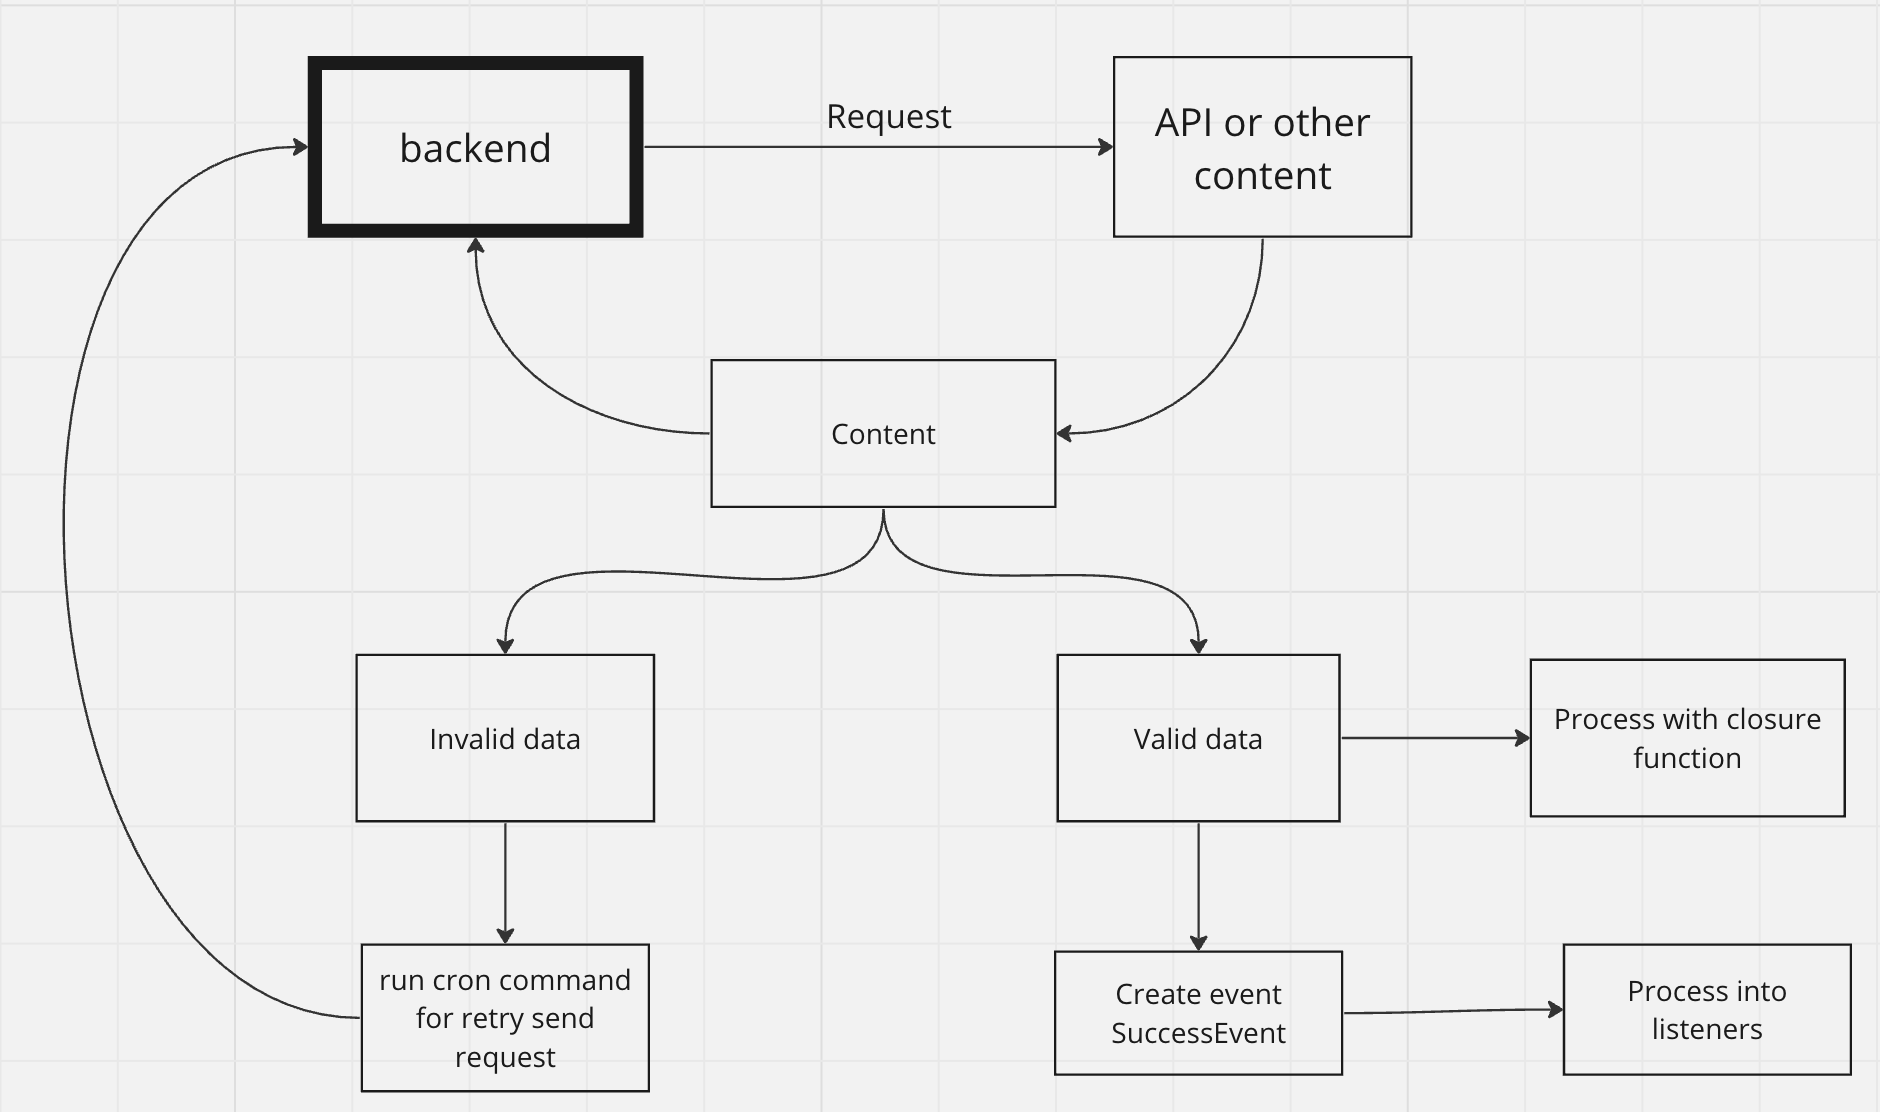
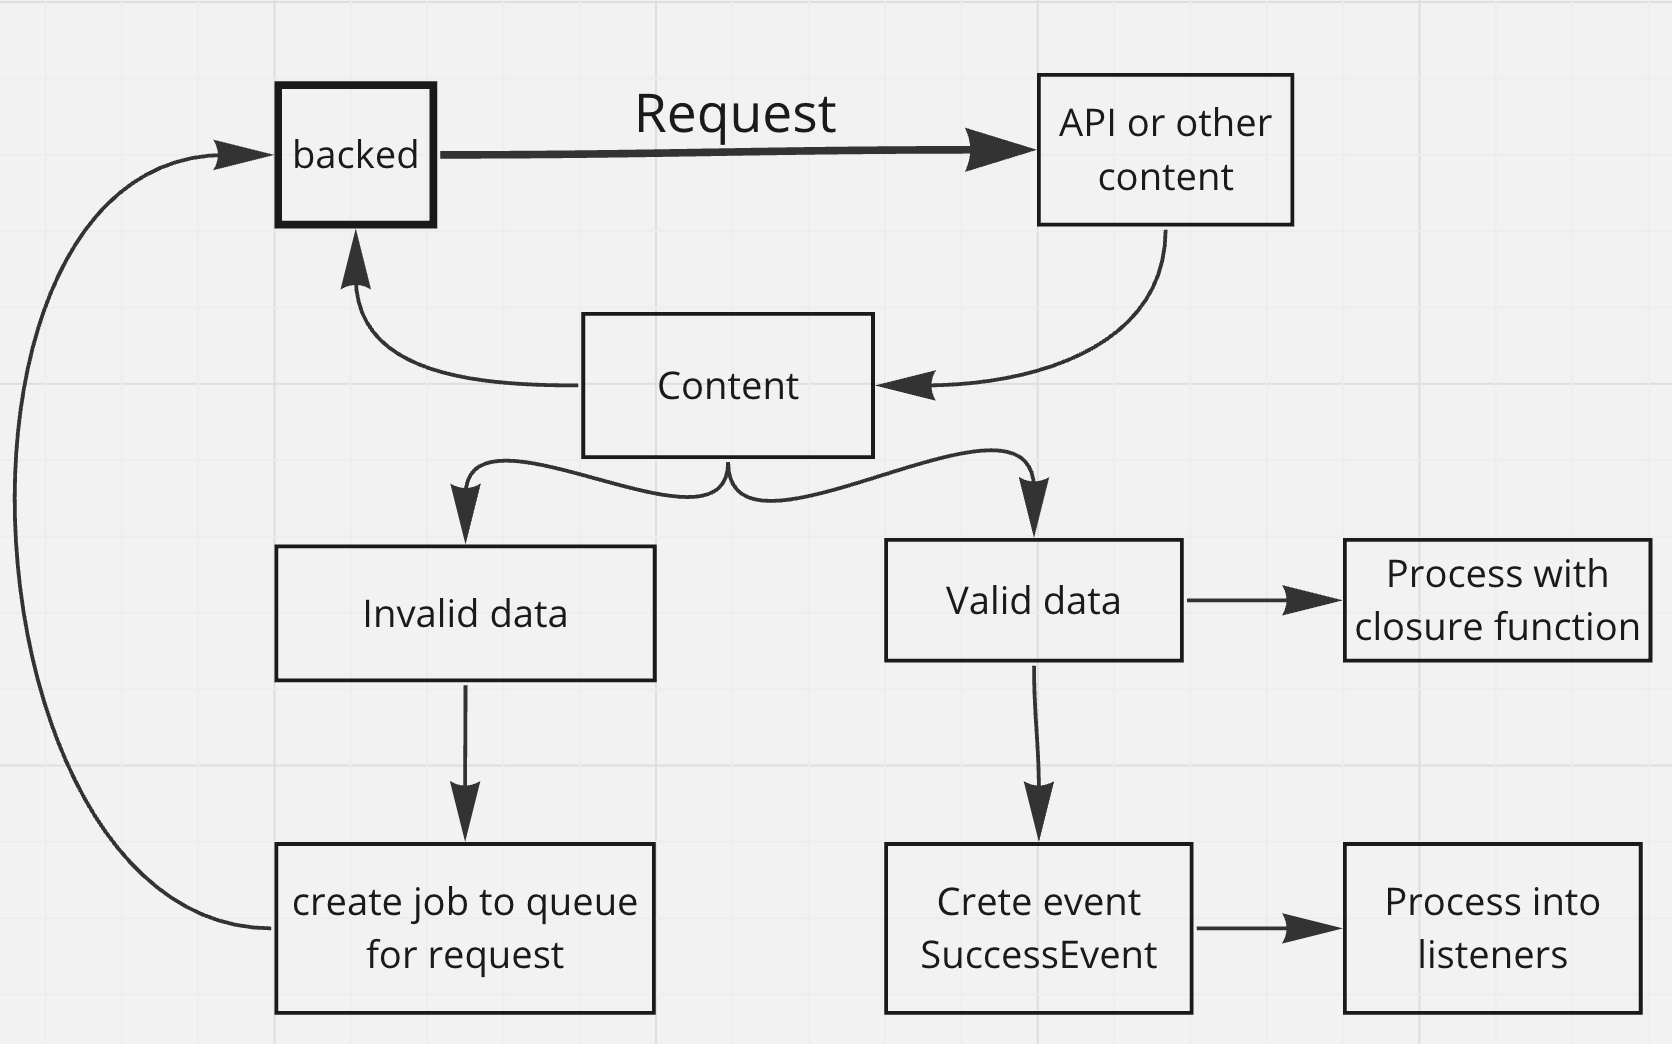
add updates

diff --git a/src/DTO/RequestDTO.php b/src/DTO/RequestDTO.php
@@ -32,9 +32,9 @@ class RequestDTO
     public function __construct(
         RequestInterface $request,
         string $event,
-        int $sleepSecond,
-        $extendedLogic = null,
-        $maxAttemps = null
+        int $sleepSecond = 60,
+        $maxAttemps = null,
+        $extendedLogic = null
     )
     {
         $this->request = $request;

diff --git a/README.md b/README.md
@@ -29,17 +29,13 @@ or add the following providers in config/app.php:
 'providers' => [PersistentRequest\ServiceProvider::class]
 ```
 
-Now need create table, call command:
+Now need start queue work process invalid requests, call command:
 ```
-php artisan persistent-request:create-table
+php artisan queue:work
 ```
 
-For auto call down request need configuration [Laravel schedule](https://laravel.com/docs/10.x/scheduling)
-
-Add command:
-```
-$schedule->command(RetryRequestCommand::class)->everyMinute();
-```
+>If request will reach limit attempt when request delete from queue and dispatch 
+event DeleteRequestEvent, which you can processed
 
 ## Example for create simple persistent request
 ```
@@ -49,7 +45,9 @@ $requestService = app(\PersistentRequest\Services\RequestServiceInterface::class
 $requestGuzzle = new \GuzzleHttp\Psr7\Request('get', 'https://google.com');
 // create comfortable DTO for transfer to service, 
 // first argument instance of guzzle request, second name event class, which will be call after success request
-$requestDTO = new \PersistentRequest\DTO\RequestDTO($requestGuzzle, \PersistentRequest\Events\SuccessEvent::class);
+// third argument it'sleep seconds, number second after need try again do send request
+// fourth argument, number try for send request
+$requestDTO = new \PersistentRequest\DTO\RequestDTO($requestGuzzle, \PersistentRequest\Events\SuccessEvent::class, 30, 5);
 // execute request, save into db serialize instance of RequestDTO, if request is success then row will be delete
 $requestService->execute($requestDTO); 
 ```
@@ -61,14 +59,21 @@ $requestService = app(\PersistentRequest\Services\RequestServiceInterface::class
 $requestGuzzle = new \GuzzleHttp\Psr7\Request('get', 'https://google.com');
 // create comfortable DTO for transfer to service, 
 // first argument instance of guzzle request, second name event class, which will be call after success request
-// third argrument anonymous function, inside of function we can do businec logic your application, dispatch events etc.
-$requestDTO = new \PersistentRequest\DTO\RequestDTO($requestGuzzle, \PersistentRequest\Events\SuccessEvent::class, function (\GuzzleHttp\Psr7\Response $response) {
+// third argument it'sleep seconds, number second after need try again do send request
+// fourth argument, number try for send request
+// fifth argrument anonymous function, inside of function we can do businec logic your application, dispatch events etc.
+$requestDTO = new \PersistentRequest\DTO\RequestDTO(
+    $requestGuzzle, 
+    \PersistentRequest\Events\SuccessEvent::class, 
+    30,
+    5
+    function (\GuzzleHttp\Psr7\Response $response) {
     //here we can do businec logic your application
     // if need then request try again, just throw exception
     if (200 !== $response->getStatusCode()) {
         throw new \Exception('error processed');
     }
 });
-// execute request, save into db serialize instance of RequestDTO, if request is success then row will be delete
+// execute request
 $requestService->execute($requestDTO);
 ```
